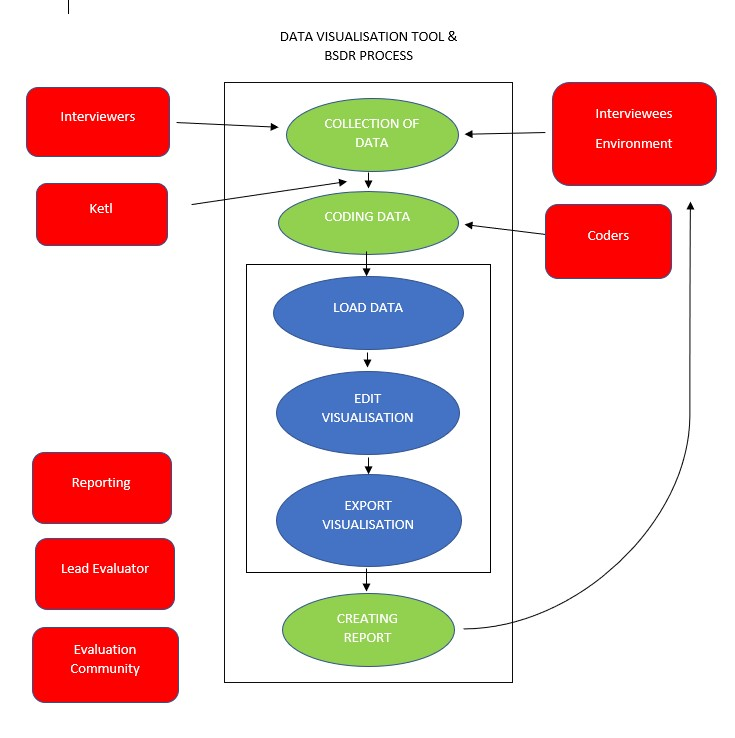
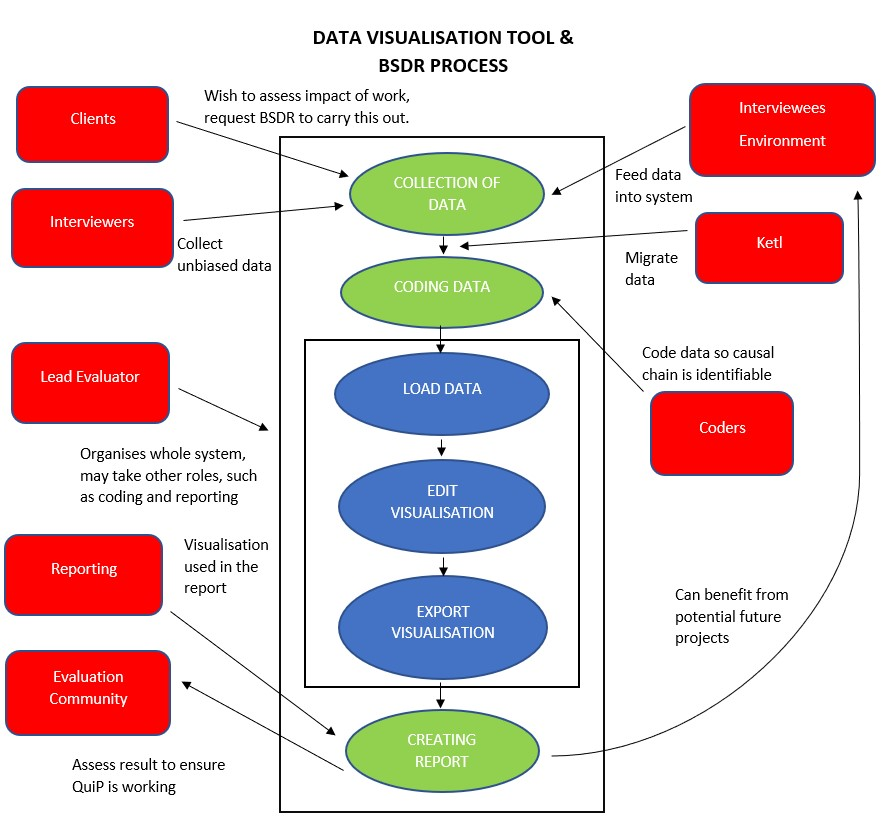
use-case diagram updated

diff --git a/Portfolio A/Project requirements - system stakeholders.md b/Portfolio A/Project requirements - system stakeholders.md
@@ -1,7 +1,7 @@
 ## System Stakeholders
 
-### About the Stakeholders (People/organisations/environments affected by the system)
-- Clients - Commission the collection of qualitative data bespoke to their requirements, other clients may just use pre-existing collected data. Examples of clients are;
+### About the Stakeholders 
+- Clients - Commission the collection of qualitative data bespoke to their own requirements, other clients may just use pre-existing collected data. Examples of clients are;
     - Donors (individuals/groups)
     - Other charities in area/sector
 - Environment - This would be the area in which the surveys are conducted in. They play a major role in the outcome of the resulting data, but also can then be in turn affected by the collected data. For instance if the environment was to be chosen for future improvement projects. 
@@ -9,14 +9,13 @@
 - Interviewees - Selected at random from the chosen environment, the interviewees provide the qualitative date. They answer a series of open-ended questions about changes in selected aspects of their lives and livelihoods over a specified period. Just like the environment, they affect the outcome of the collected data, but can also be affected by the date.
 - Ketl - Is a company focused on data management and helps our client migrate his data to the software MicroStrategy.
 - Coders - Take the raw field data and having been briefed about details of the project identifies and codes cause-and-effect statements in the data using the QuiP coding system.
-- Reporting - Analysed data can be displaying in a variety of ways to demonstrate the key positive and negative drivers of change, and potential links between project activities and incidental/external drivers of change.
-- Lead Evaluator (co-ordinates study) - After the results have been documented... 
+- Reporting - Utilised the visualisations in a report, as requested by the client. It also includes analysed data displaying in a variety of ways to demonstrate the key positive and negative drivers of change, and potential links between project activities and incidental/external drivers of change.
+- Lead Evaluator (co-ordinates study) - Organise the collection of data, the coding and reporting stages.
 - Evaluation Community - QuiP is a new approach to the collection of qualitative date, the evaluation community ensure that it continues to tackles bias in data collection, and encourages real engagement with findings through the use of innovative interactive data visualisations.
 
 
 ![high-level use-case diagram](usecase.jpg)
 
-Attatched is: a high-level use-case diagram showing the key actors who engage with the system and the primary functional goals they may wish to achieve.
 -----
 
 
